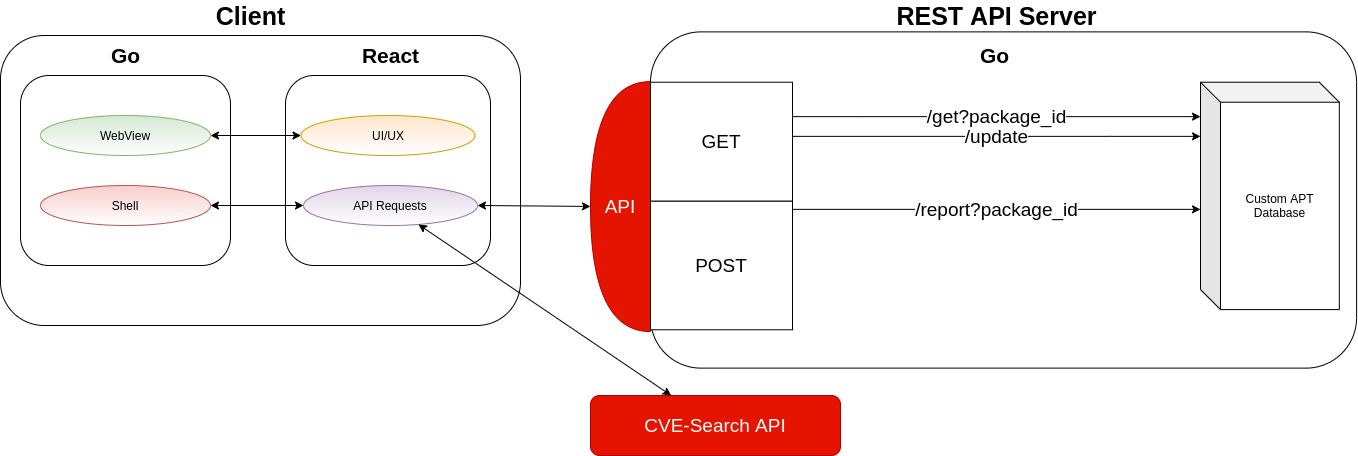
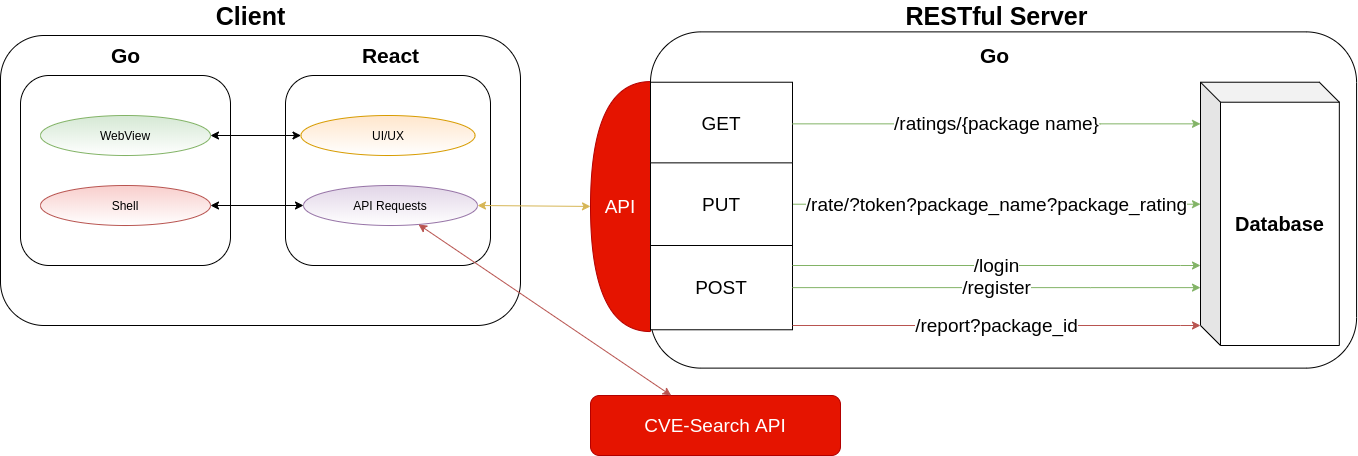
Update project scheme

diff --git a/README.md b/README.md
@@ -3,3 +3,6 @@
 Backend for Parrot Software Center
 
 ![Scheme](https://nest.parrot.sh/packages/parrot/software-center-team/parrot-software-center-backend/-/raw/master/scheme.png)
+Green arrows - implemented
+Yellow arrows - in the works
+Red arrows - not implemented
